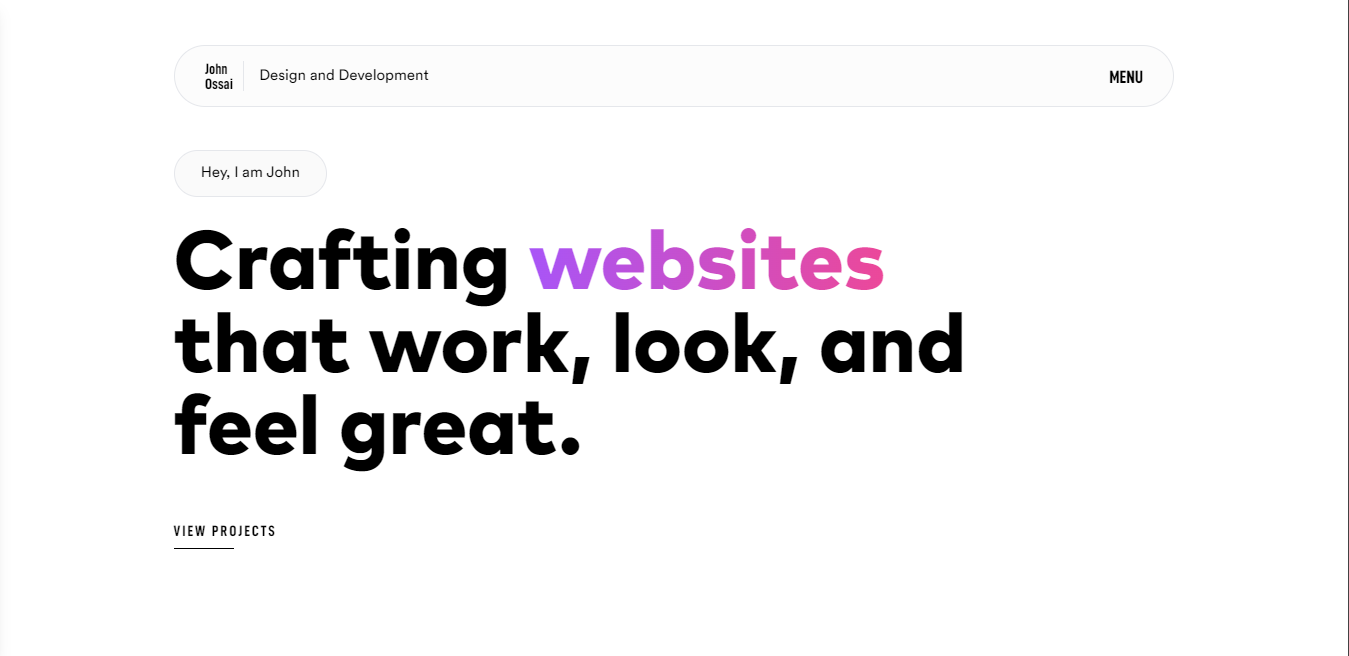
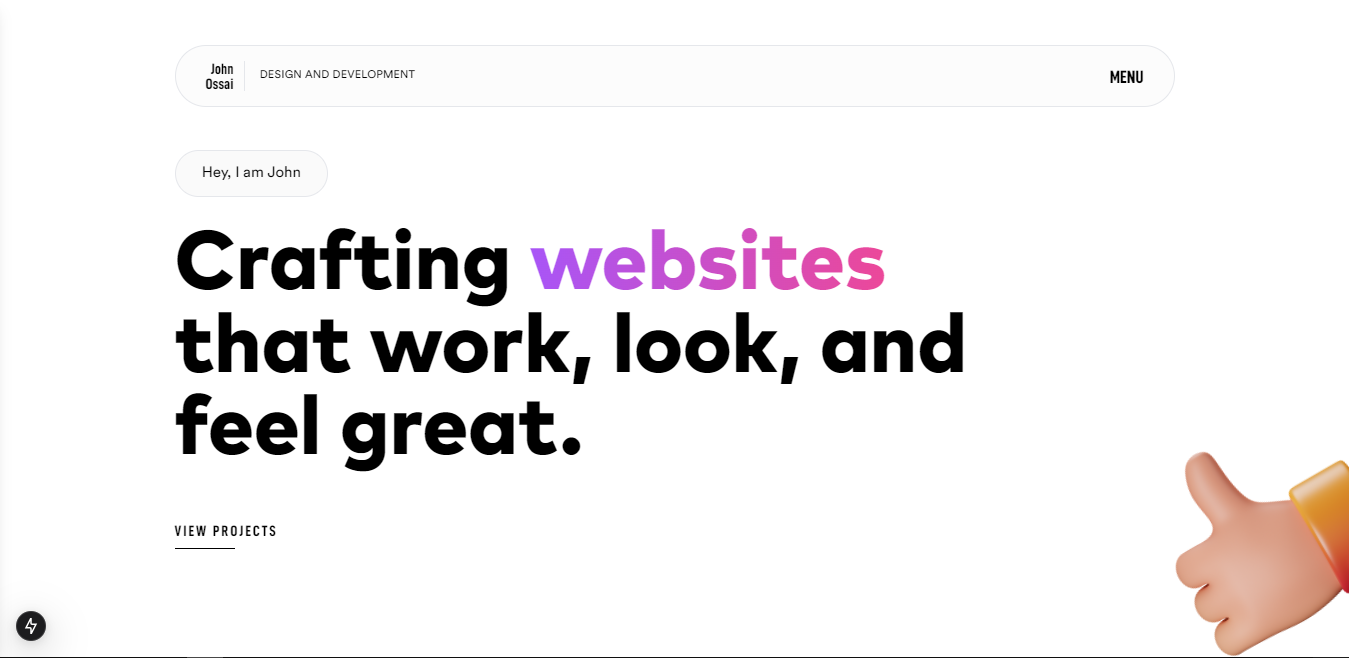
`Update layout and design elements in src/app/layout.tsx and src/app/page.tsx, and update image in public/image.png`

diff --git a/src/app/layout.tsx b/src/app/layout.tsx
@@ -37,12 +37,12 @@ export default function RootLayout({
                   <div className="flex items-center gap-[1rem]">
                      <Link
                         href="/"
-                        className="font-Din leading-[1] border-r pr-[.7rem]"
+                        className="font-Din leading-[1] border-r pr-[.7rem] text-right"
                      >
                         <h1>John</h1>
                         <h1>Ossai</h1>
                      </Link>
-                     <h1 className="font-Circular">Design and Development</h1>
+                     <h1 className="font-Circular text-[.7rem] uppercase tracking-wider">Design and Development</h1>
                   </div>
                   <button
                      className="inline-block font-Din font-normal text-[1.2rem] uppercase tracking-[2]"

diff --git a/src/app/page.tsx b/src/app/page.tsx
@@ -78,7 +78,7 @@ export default function Home() {
             <div className="max-w-[1000px] mx-auto">
                <img
                   src="./hand.png"
-                  className="hidden md:block absolute w-[250px!important] left-[-5rem] rotate-[-30deg]"
+                  className="hidden md:block absolute w-[250px!important] bottom-[3rem] right-[-3rem] rotate-[-30deg] scale-x-[-1]"
                   alt=""
                />
                <h1 className="font-Circular border inline-block rounded-full py-2 px-5 sm:py-3 sm:px-7 bg-[#fafafa] text-sm sm:text-base">Hey, I am John</h1>
